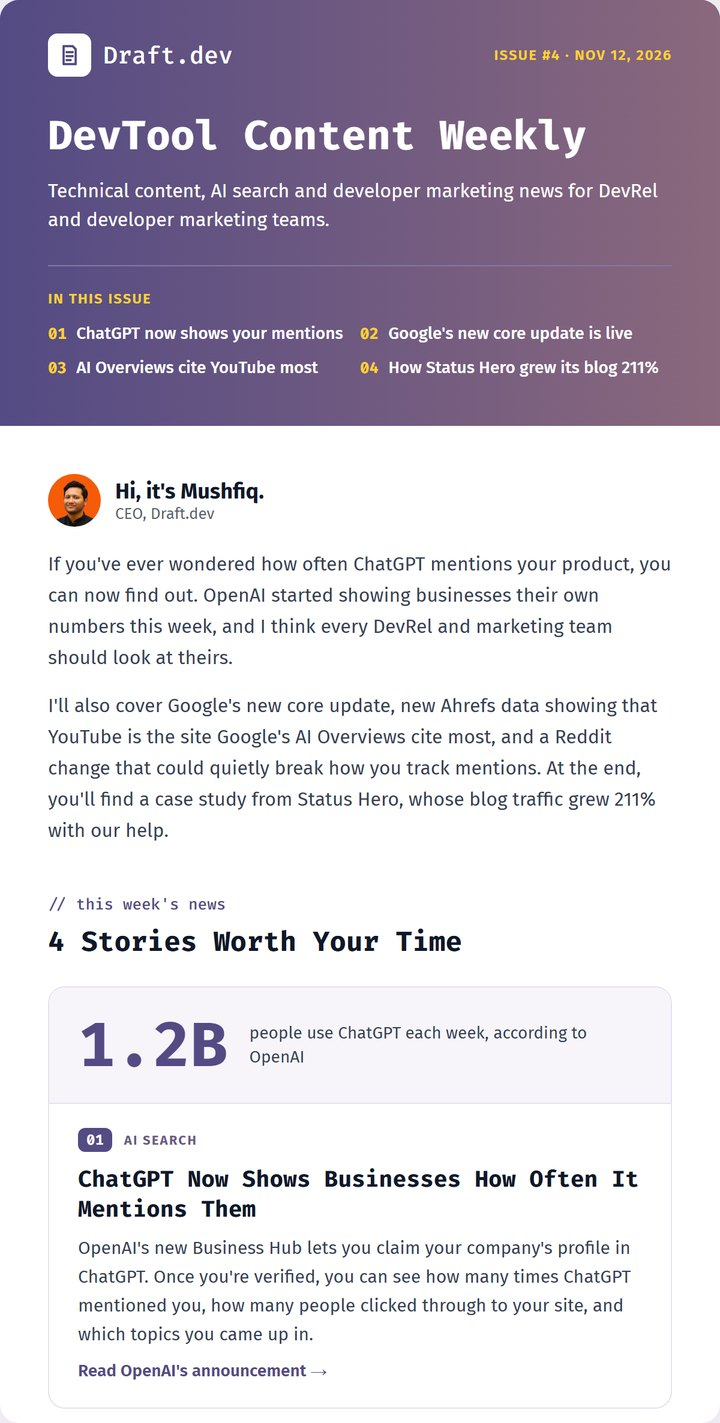
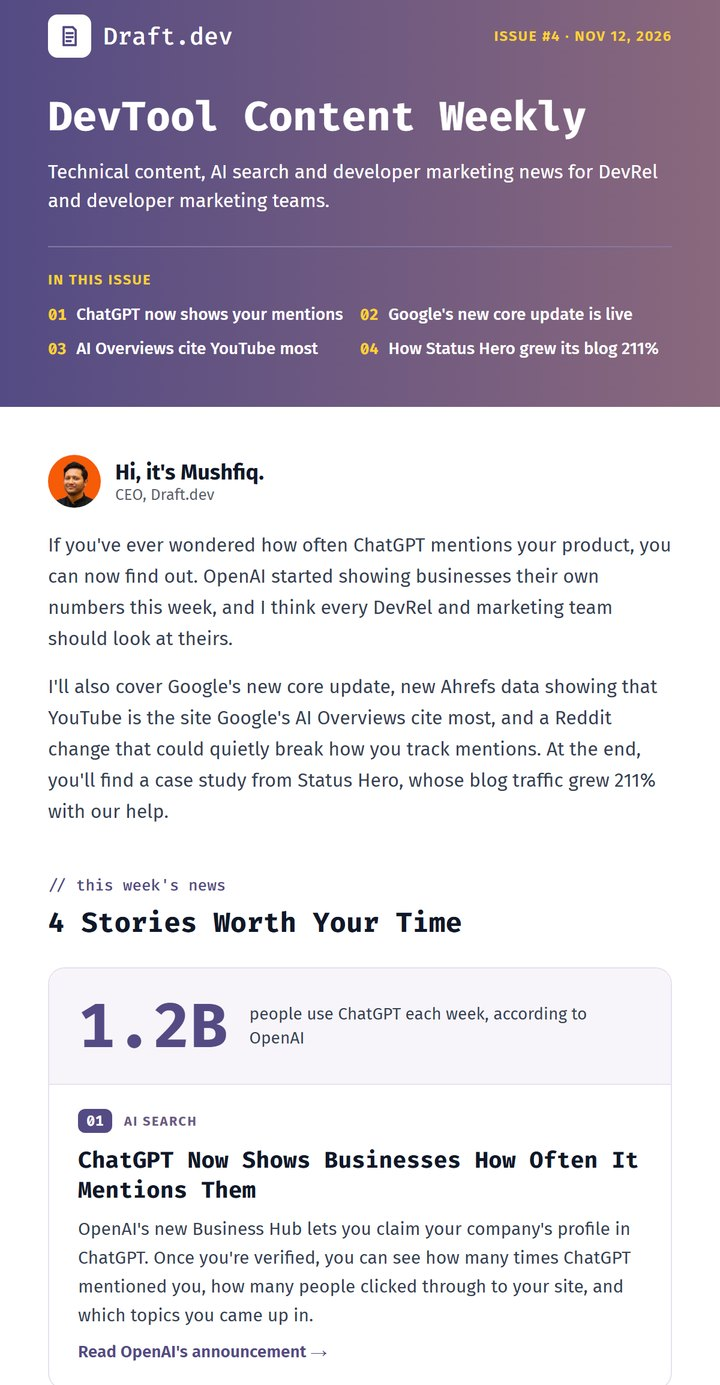
Newsletter page: shorter H1, keyword in hero text, images cropped inside the newsletter's rounded corners

diff --git a/src/components/page-components/service-landing/hero.tsx b/src/components/page-components/service-landing/hero.tsx
@@ -4,8 +4,6 @@ import Link from 'next/link'
 
 interface HeroProps {
   title: string
-  // Slightly smaller title on desktop, for longer titles that need two lines
-  compactTitle?: boolean
   description: string
   primaryCTA: { text: string; href: string }
   guide: {
@@ -22,13 +20,7 @@ interface HeroProps {
 // beside the copy, the primary CTA uses a bright accent so it stands out on
 // the brand gradient, and the client logo strip lives inside the hero (as on
 // the homepage) so there is no seam between the hero and the next section.
-const Hero = ({
-  title,
-  compactTitle = false,
-  description,
-  primaryCTA,
-  guide,
-}: HeroProps) => {
+const Hero = ({ title, description, primaryCTA, guide }: HeroProps) => {
   return (
     <section className="bg-gradient-brand pt-12 pb-12 sm:pt-16">
       <div className="mx-auto max-w-7xl px-6 lg:px-8">
@@ -41,9 +33,7 @@ const Hero = ({
               <span className="text-sm text-white">{guide.title}</span>
             </Link>
             {/* Sized so the title sits on two lines on desktop */}
-            <h1
-              className={`font-code sm:header-light mt-6 mb-2 pb-4 text-3xl leading-tight font-semibold text-white ${compactTitle ? 'lg:text-[3.35rem]!' : ''}`}
-            >
+            <h1 className="font-code sm:header-light mt-6 mb-2 pb-4 text-3xl leading-tight font-semibold text-white">
               {/* Desktop line break: after "for" by default, or wherever the
                   title has "\n" for titles where that reads better */}
               {(() => {

diff --git a/src/app/newsletter-services-for-devtools/page.tsx b/src/app/newsletter-services-for-devtools/page.tsx
@@ -17,7 +17,7 @@ const description =
   'Developer newsletter services for devtools and AI platforms. We curate the news in your niche, write each issue, and send it from your email tool with your brand front and center.'
 
 const heroDescription =
-  'We write a roundup of the news in your niche that developers want to read, with your brand front and center. Each issue keeps your product top of mind with the customers you already have.'
+  'We write a developer newsletter that rounds up the news in your niche, with your brand front and center. Each issue keeps your product top of mind with the customers you already have.'
 
 export const metadata: Metadata = {
   metadataBase: new URL('https://draft.dev'),
@@ -68,8 +68,7 @@ export default function NewsletterServices() {
   return (
     <div>
       <Hero
-        title={'Developer Newsletters for\nDevTools & AI Platforms'}
-        compactTitle
+        title={'Newsletters for\nDevTools & AI Platforms'}
         description={heroDescription}
         primaryCTA={{ text: 'Book a Discovery Call', href: '#book-a-call' }}
         guide={{
